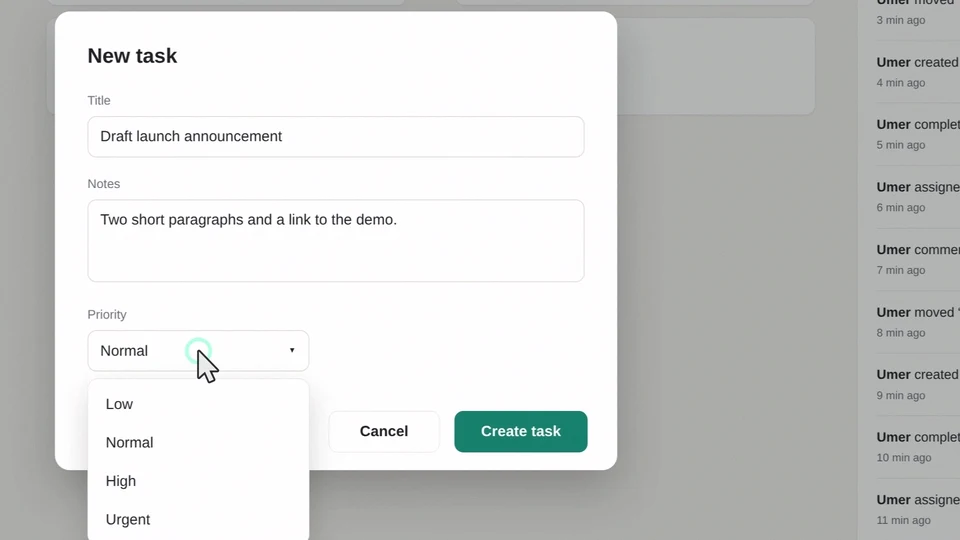
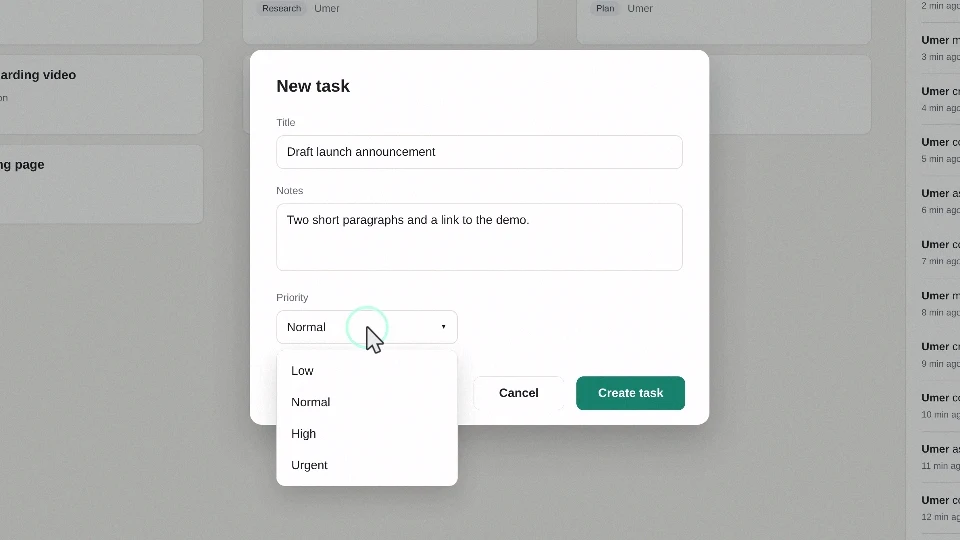
docs(readme): crop the empty half of the Record step; render step from the main build

diff --git a/README.md b/README.md
@@ -32,7 +32,7 @@ takeone plans the shots afterwards from what actually happened on screen, then r
 
 1. **Record** the whole screen, plus your clicks and key presses. Key presses are logged by type only, never as letters.
 
-   <img src="docs/assets/readme/step-record.webp" width="640" alt="The raw recording: the Tidewater board with the new Draft launch announcement card in To do" />
+   <img src="docs/assets/readme/step-record.webp" width="640" alt="The raw recording: the Tidewater board with the new Draft launch announcement card at the top of To do" />
 
 2. **Plan** the camera: takeone splits the take into moments and finds what you acted on (the green box).
 
@@ -43,7 +43,7 @@ takeone plans the shots afterwards from what actually happened on screen, then r
    <picture>
      <source media="(prefers-color-scheme: dark)" srcset="docs/assets/readme/step-render-dark.webp" />
      <source media="(prefers-color-scheme: light)" srcset="docs/assets/readme/step-render-light.webp" />
-     <img src="docs/assets/readme/step-render-light.webp" width="640" alt="The rendered frame, pushed in on the New task dialog, with a click ring on the Priority field" />
+     <img src="docs/assets/readme/step-render-light.webp" width="640" alt="A 1:1 detail of the rendered frame: a click ring on the Priority field of the New task dialog" />
    </picture>
 
 ## Quick start
